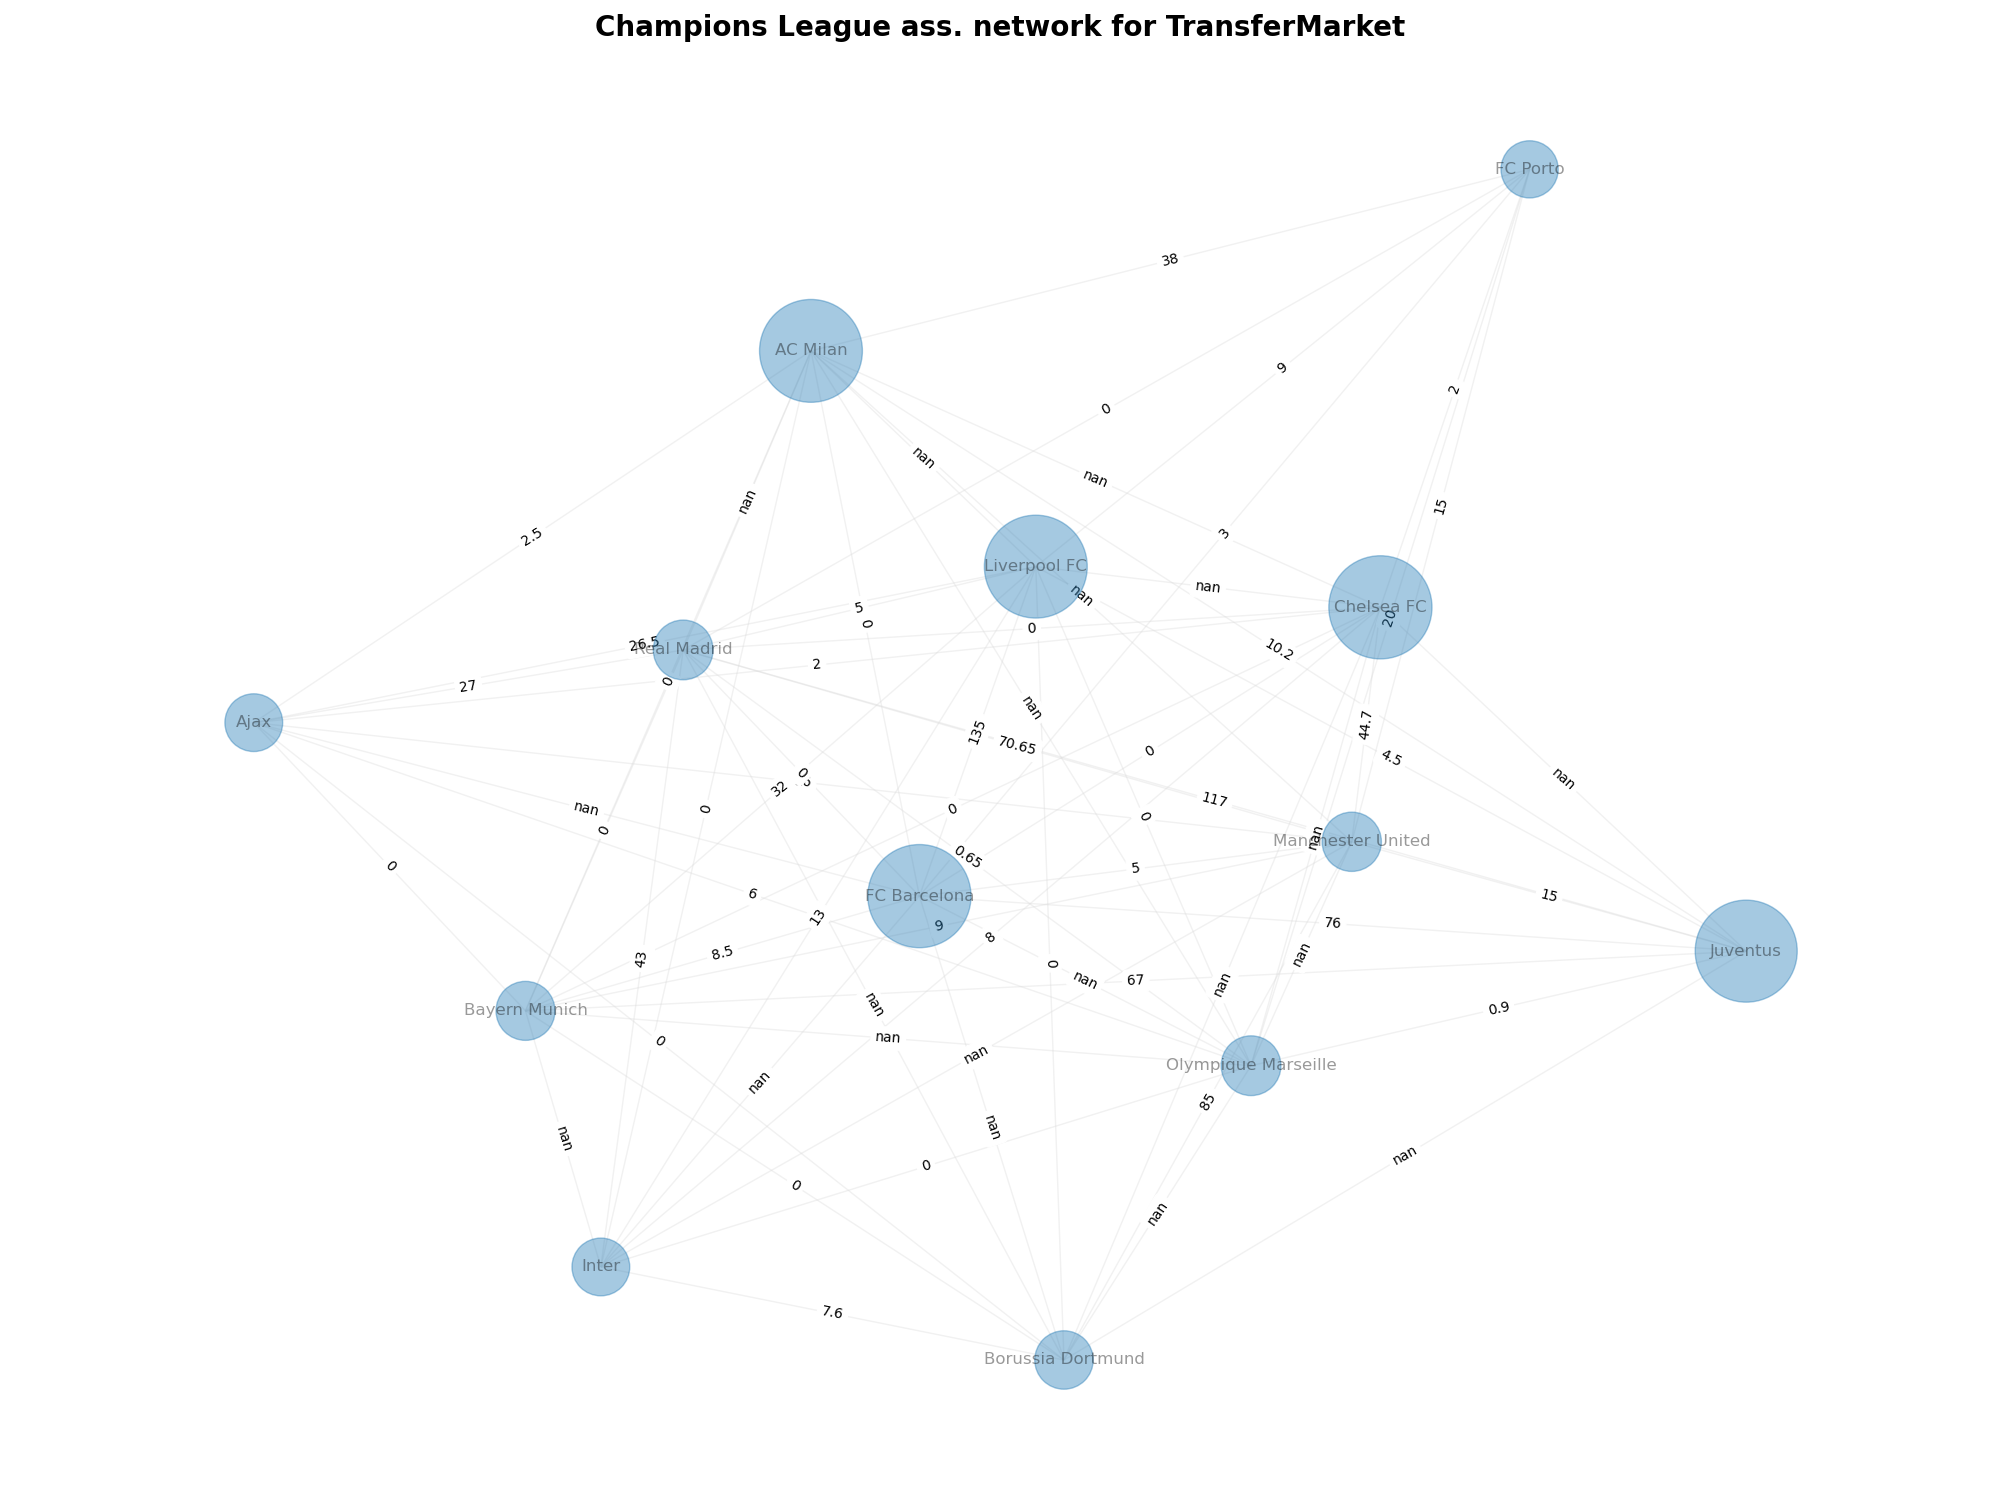
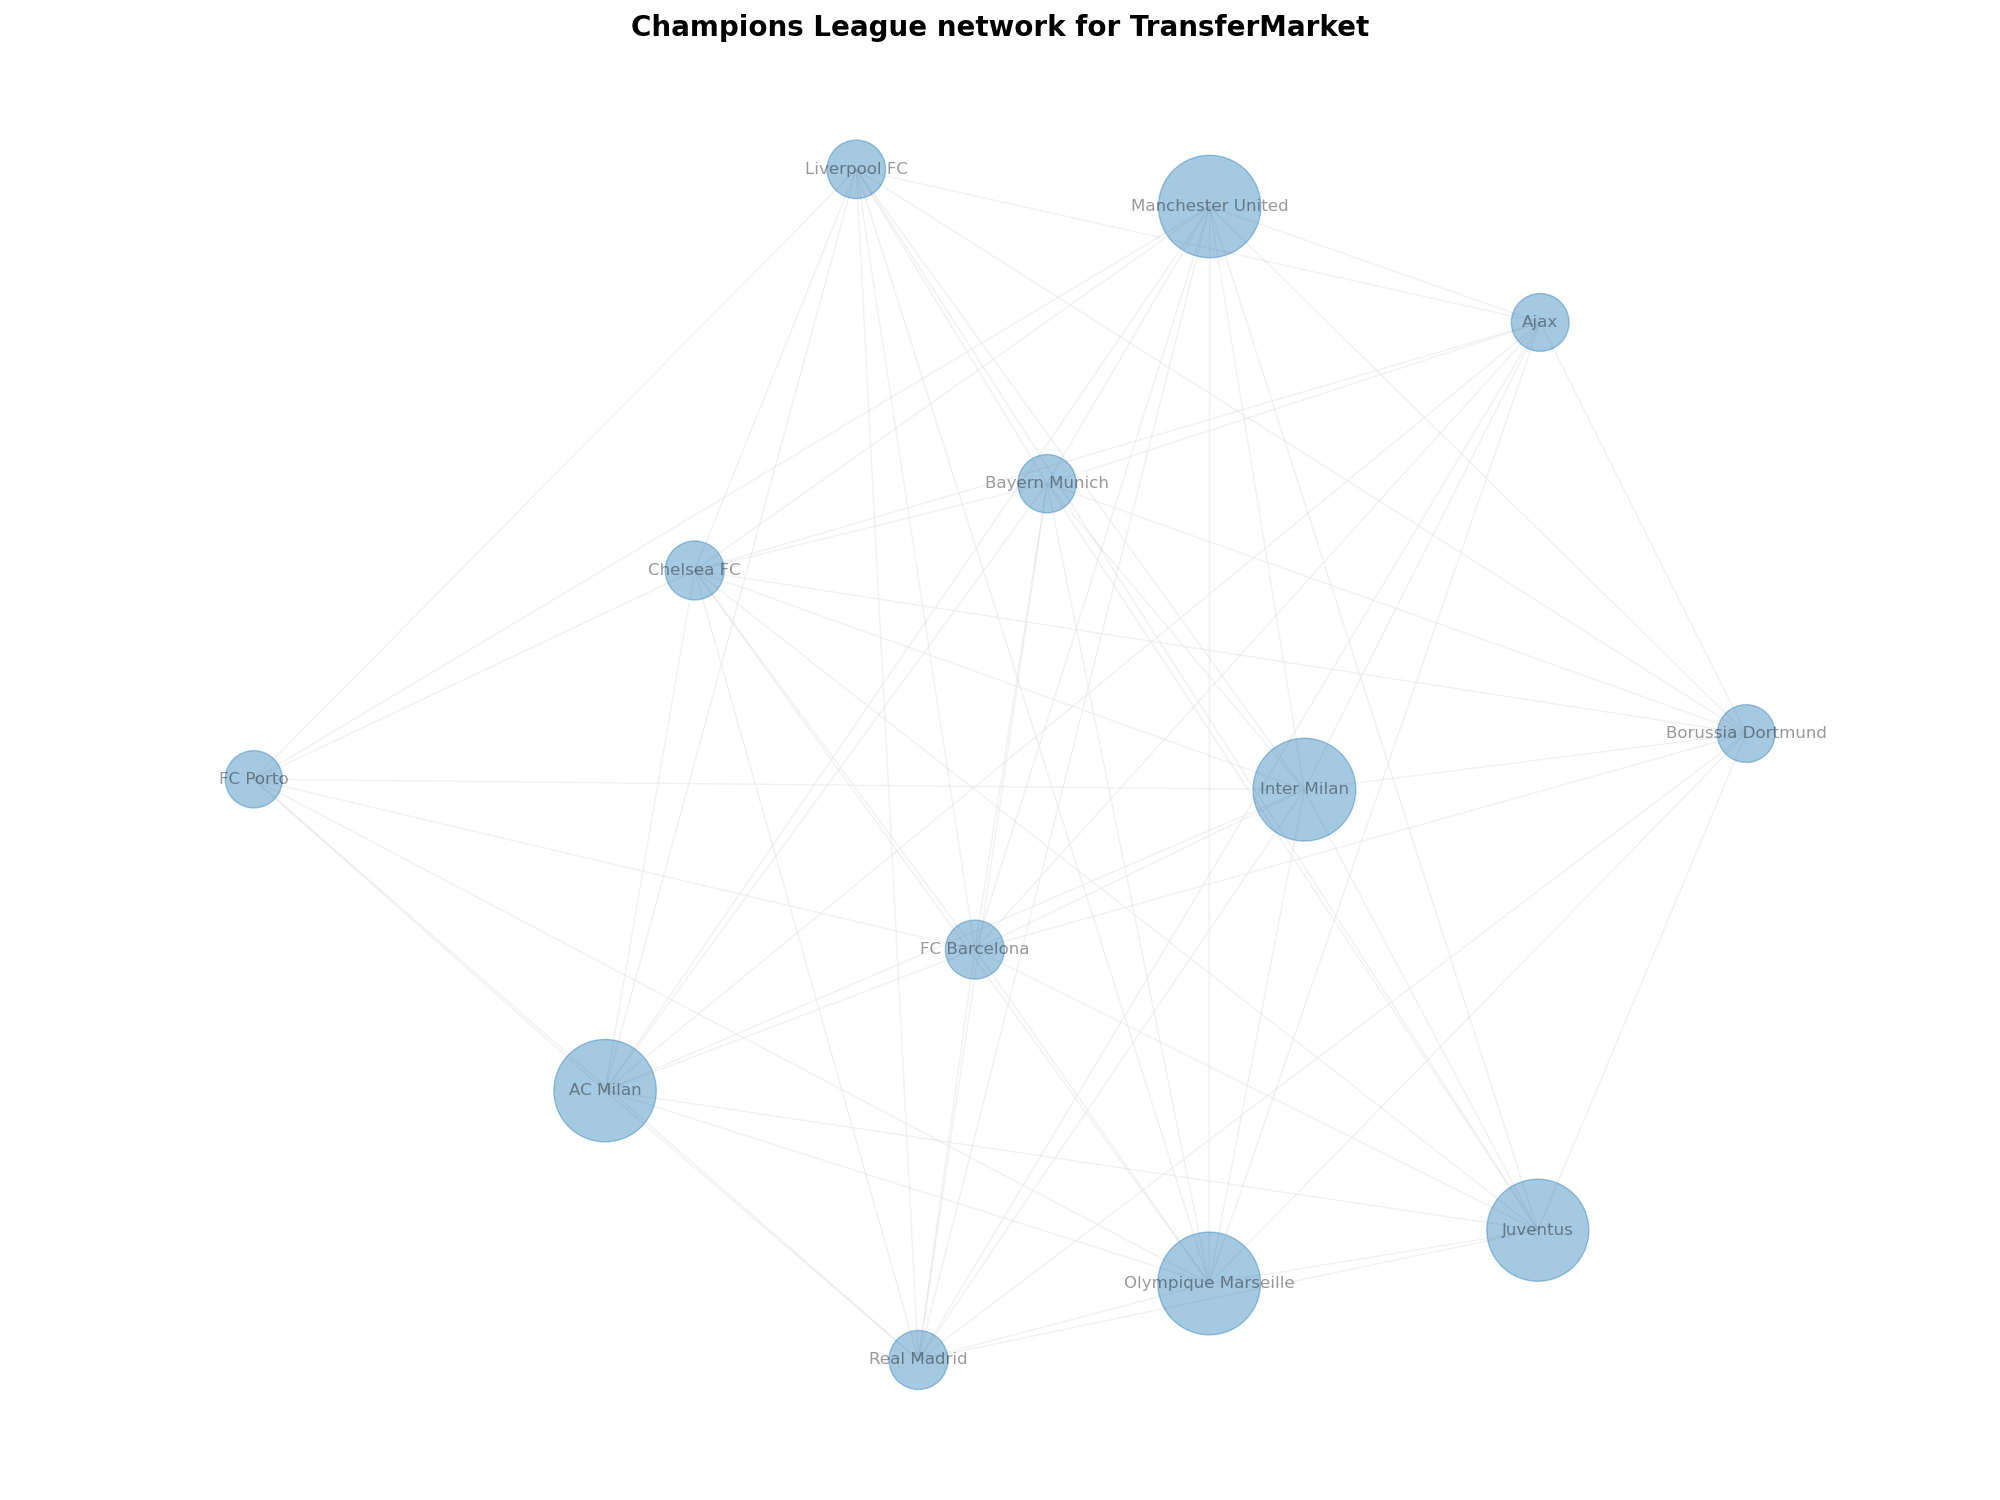
Europa League + fix

diff --git a/src/winners.py b/src/winners.py
@@ -1,10 +1,13 @@
 import networkx as nx
 import matplotlib.pyplot as plt
 
+
+titles = ["Champions League network for TransferMarket", "Europa League network for TransferMarket"]
+fig_names = ["../plots/champ_league.png", "../plots/europa_league.png"]
+
 class Winners:
-    
-    
-    def plot_winners(self, graph, centrality):
+
+    def plot_winners(self, graph, centrality, n):
         
         fig, ax = plt.subplots(figsize=(20, 15))
         pos = nx.spring_layout(graph, k=0.15, seed=4572321)
@@ -17,17 +20,19 @@ class Winners:
             edge_color="gainsboro",
             alpha=0.4,
         )
-        edge_labels = nx.get_edge_attributes(graph, "fee")
-        nx.draw_networkx_edge_labels(graph, pos, edge_labels)
+        
+        # Draws fee label on the edges
+        # edge_labels = nx.get_edge_attributes(graph, "fee")
+        # nx.draw_networkx_edge_labels(graph, pos, edge_labels)
         
         font = {"color": "k", "fontweight": "bold", "fontsize": 20}
-        ax.set_title("Champions League ass. network for TransferMarket", font)
+        ax.set_title(titles[n], font)
 
         ax.margins(0.1, 0.05)
         fig.tight_layout()
         plt.axis("off")
-        plt.savefig("../plots/champ_league.png", format="PNG")
-        plt.show()
+        plt.savefig(fig_names[n], format="PNG")
+        #plt.show()
  
         
     def champ_league(self, soccer, champs):
@@ -47,7 +52,8 @@ class Winners:
             
         # Fix naming of clubs 
         mapping = {'Barcelona': 'FC Barcelona', 'Bor. Dortmund': 'Borussia Dortmund', 'Man Utd': 'Manchester United',
-                   'Chelsea' : 'Chelsea FC', 'Liverpool' : 'Liverpool FC', 'Marseille' : 'Olympique Marseille'}
+                   'Chelsea' : 'Chelsea FC', 'Liverpool' : 'Liverpool FC', 'Marseille' : 'Olympique Marseille',
+                   'Inter': 'Inter Milan'}
         winners_graph = nx.relabel_nodes(winners_graph, mapping)
 
         # Induced subgraph of larger connected components
@@ -58,7 +64,41 @@ class Winners:
         # # Compute centrality
         centrality = nx.betweenness_centrality(winners_graph, k=5, normalized=True, endpoints=True)
 
-        self.plot_winners(winners_graph, centrality)
+        self.plot_winners(winners_graph, centrality, 0)
+        
+        return winners
+    
+    def europa_league(self, soccer, champs):
+        winners_graph = nx.Graph()
+        
+        # Transfers between Champions League winners since 1992/1993
+        winners= {}
+        for ((seller, buyer), (player, fee_cleaned, year)) in soccer.items():
+            if seller in champs and buyer in champs:
+                winners.update({(seller, buyer):(fee_cleaned, player)})
+        winners_graph.add_nodes_from(winners.keys())
+
+        # Trimmed graph with only fee_cleaned weight
+        for ((seller, buyer), (fee_cleaned, player)) in winners.items():
+            winners_graph.add_weighted_edges_from(ebunch_to_add=[(seller, buyer, fee_cleaned)], weight="fee")
+            
+        # Fix naming of clubs 
+        mapping = {'Bor. Dortmund': 'Borussia Dortmund', 'Man Utd': 'Manchester United',
+                   'Chelsea' : 'Chelsea FC', 'Liverpool' : 'Liverpool FC', 'Villarreal' : 'Villarreal CF',
+                   'Inter': 'Inter Milan', 'Schalke 04' : 'FC Schalke 04', 'Parma' : 'Parma FC',
+                   'E. Frankfurt' : 'Eintracht Frankfurt', 'Atlético Madrid' : 'Atlético de Madrid',
+                   'Valencia' : 'Valencia CF'}
+        winners_graph = nx.relabel_nodes(winners_graph, mapping)
+
+        # Induced subgraph of larger connected components
+        components = nx.connected_components(winners_graph)
+        largest_component = max(components, key=len)
+        winners_graph = winners_graph.subgraph(largest_component)
+        
+        # # Compute centrality
+        centrality = nx.betweenness_centrality(winners_graph, k=5, normalized=True, endpoints=True)
+
+        self.plot_winners(winners_graph, centrality, 1)
         
         return winners
         

diff --git a/src/main.py b/src/main.py
@@ -23,9 +23,13 @@ champ_league_winners = ['Olympique Marseille','Marseille', 'AC Milan', 'Ajax', '
                         'FC Porto', 'Liverpool FC', 'FC Barcelona', 'AC Milan', 'Man Utd', 'Barcelona',
                         'Inter', 'Barcelona', 'Chelsea', 'Bayern Munich', 'Real Madrid','Barcelona',
                         'Real Madrid', 'Real Madrid', 'Real Madrid', 'Liverpool', 'Bayern Munich',
-                        'Chelsea FC', 'Real Madrid', 'Borussia Dortmund']
+                        'Chelsea FC', 'Real Madrid', 'Borussia Dortmund', 'Inter Milan']
 
-europa_league_winners = []
+europa_league_winners = ['Juventus', 'Inter Milan', 'Inter', 'Parma', 'Bayern Munich', 'Parma FC', 'Schalke 04',
+                         'FC Schalke 04', 'Galatasaray', 'Liverpool FC', 'Liverpool', 'Feyenoord', 'FC Porto', 
+                         'Valencia', 'Valencia CF', 'CSKA Moscow', 'Sevilla FC', 'Zenit S-Pb', 'Shakhtar D.', 
+                         'Atlético Madrid', 'Atlético de Madrid', 'Chelsea', 'Chelsea FC', 'Manchester United',
+                         'Man Utd', 'Villarreal', 'Villarreal CF', 'E. Frankfurt', 'Eintracht Frankfurt']
 
 def data_community(ordered):
     print(len(ordered))
@@ -42,8 +46,6 @@ def main():
     soccer = prep.create_dict(0)
     # print(soccer)
     
-    
-    
     # Execute functions
     # Communities
     comm = Community()
@@ -58,12 +60,11 @@ def main():
     soccer_champ = prep.create_dict(5)
     
     # Returns winners dict (seller, buyer) : (fee, player)
-    winners = win.champ_league(soccer_champ, champ_league_winners)
+    ch_winners = win.champ_league(soccer_champ, champ_league_winners)
+    eur_winners = win.europa_league(soccer_champ, europa_league_winners)
 
 
 main()
-
-#fee_edge_labels = nx.get_edge_attributes(trim_graph, 'fee')
 
 """
     TODO:

diff --git a/src/preprocess.py b/src/preprocess.py
@@ -11,10 +11,9 @@ class Preprocessing:
         
         return leagues[arg_n]
         
-    def create_dict(self, league_n, champs):
+    def create_dict(self, league_n):
         
         league = self.select_league(league_n)
-        print(league)
         df = pd.read_csv(league)
         G = nx.from_pandas_edgelist(df, source='club_name', target='club_involved_name',
                                     edge_attr=['fee', 'year', 'player_name', 'transfer_movement', 'fee_cleaned'],
@@ -47,11 +46,7 @@ class Preprocessing:
             # Remove double edges (Ex: 2 Transactions happen, in and out. Keep only out transactions)
             if not ((seller, buyer), (player, fee_cleaned, year)) in soccer_dict.items():
                 soccer_dict.update({(seller, buyer):(player, fee_cleaned, year)})
-                
-            if not ((seller, buyer), (player, fee_cleaned, year)) in winners.items():
-                if seller in champs and buyer in champs:
-                    winners.update({(seller, buyer):(player, fee_cleaned)})
         
-        return soccer_dict, winners
+        return soccer_dict
                 
 
